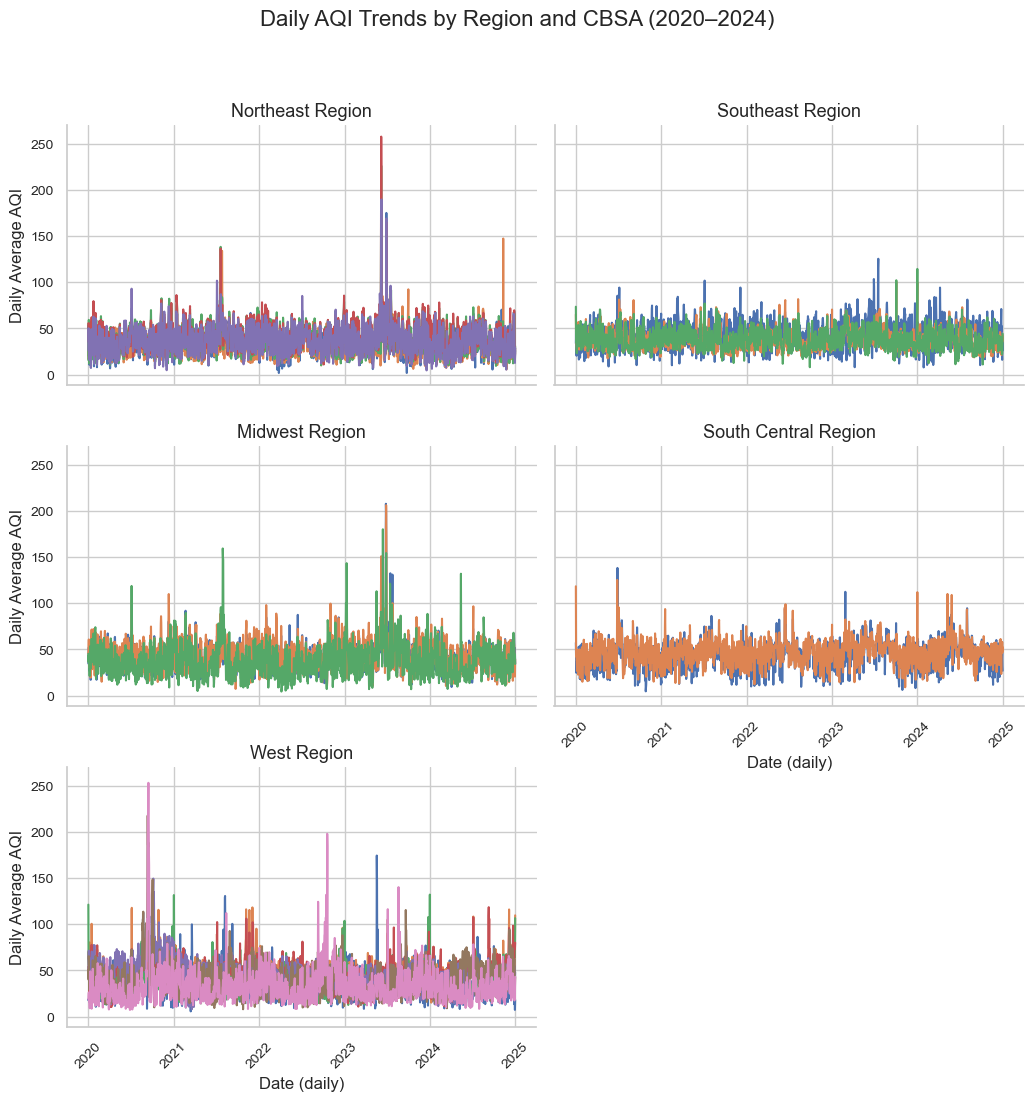
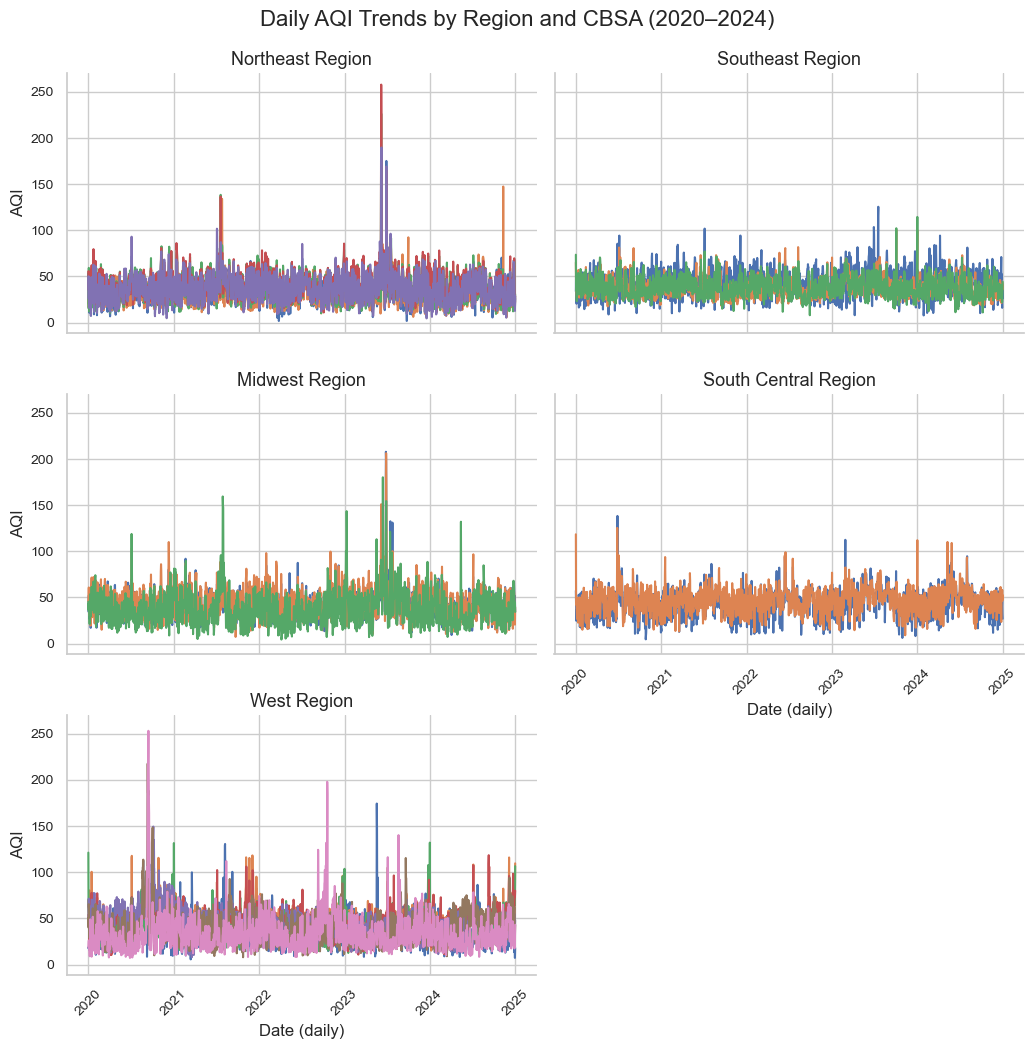
Update CBSA daily data figure title and add LOWESS smoothed NY AQI data figure

diff --git a/_projects/air_quality_geo_experiments.md b/_projects/air_quality_geo_experiments.md
@@ -122,7 +122,7 @@ At the CBSA level, I examined the 20 most populous areas and grouped them by reg
 
 <div class="row">
     <div class="col-sm mt-3 mt-md-0">
-        {% include figure.liquid loading="eager" path="assets/img/air_quality_geo_experiments/cbsa_daily_data.png" title="daily cbsa data from aqs" class="img-fluid rounded z-depth-1" %}
+        {% include figure.liquid loading="eager" path="assets/img/air_quality_geo_experiments/cbsa_daily_data.png" title="daily cbsa aqi data from aqs" class="img-fluid rounded z-depth-1" %}
     </div>
 </div>
 
@@ -130,7 +130,11 @@ Seasonally, AQI peaks in the summer months, with more extreme fluctuations. This
 
 In the New York region, this seasonal AQI elevation recurs annually. To better visualize this in noisy data, I applied LOWESS smoothing.
 
-[Show NY area stacked time series of years]
+<div class="row">
+    <div class="col-sm mt-3 mt-md-0">
+        {% include figure.liquid loading="eager" path="assets/img/air_quality_geo_experiments/ny_smoothed.png" title="lowess smoothed ny aqi data" class="img-fluid rounded z-depth-1" %}
+    </div>
+</div>
 
 At the borough level, Brooklyn and Manhattan had substantial missing AQI data, so I focused on the Bronx and Queens. Though proper market-matching wasn’t conducted here, these two boroughs were selected based on data completeness.
 
